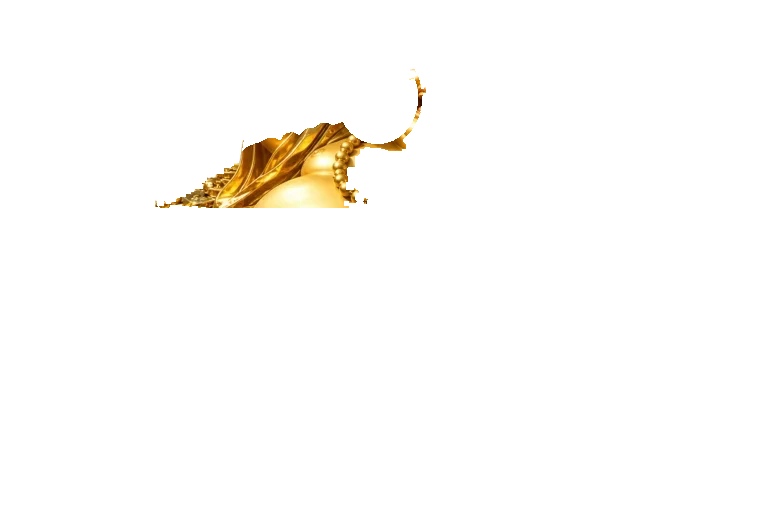
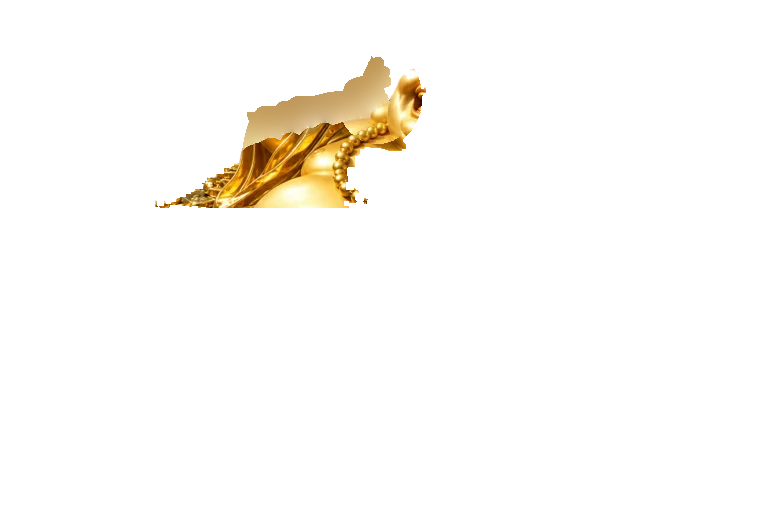
The backdrop the limb travels on
Two defects, one cause. The plate's fill was taken from the arm-down state,
so wherever that state has nothing — which is its whole shoulder line — the
pixels the limb uncovers had no paint behind them, and a wedge of open air
opened between the limb and the drape. And the anchor, the layer meant to
back the joint, carried the RAISED arm's pixels: exact at rest, and a
torn-off piece of the photograph once the hand was on the belly.

The anchor now carries the arm-down state's own gold, continued outward as
far as the limb can travel in the pose it is drawn in, and it steps aside
with the limb on the same two-millisecond handover.

Measured, rest pose: 70 px over 32 of 393216, 0 along the cut, and the
layering costs -0.16 dB against the artwork through one encoder trip.

Changed region(s): [[0.3125, 0.0938, 0.5625, 0.3125]]

diff --git a/app/public/styles.css b/app/public/styles.css
@@ -3222,10 +3222,13 @@ body:has(.consent) .footer { padding-bottom: 8rem; }
 .mascot-part--chest,
 .mascot-part--belly,
 .mascot-part--blink { opacity: 0; }
-/* The shoulder anchor never animates and is never hidden: it is the joint the
-   limb swings from. Its pixels are the artwork's own, so at rest it and the
-   limb tile the footprint exactly; while the limb moves, it is what the limb
-   slides over instead of tearing away from. */
+/* The limb's backdrop: the joint, and the gold the limb is standing in front
+   of. Its pixels are the artwork's own, so at rest it and the limb tile the
+   footprint exactly; while the limb moves it is what the limb slides OVER
+   instead of tearing away from. It is the RAISED pose's furniture, though, and
+   that is the half that was missing: left up while the hand is down it sits on
+   the shoulder as a torn-off piece of the photograph, so it steps aside with
+   the limb, on the same two-millisecond step, and comes back with it. */
 .mascot-part--anchor { opacity: 1; }
 /* The stacking is the composition's, not the DOM's: the plate is the still the
    parts are laid over and is pinned to the bottom of the scene, so a part can
@@ -3278,6 +3281,10 @@ body:has(.consent) .footer { padding-bottom: 8rem; }
      the bottom of the swing, where the arm is lowest and the shoulder is the
      last thing the eye is on (§5, §7, §8). */
   .mascot-part--belly { animation: buddha-belly 24s ease-in-out infinite; }
+  /* The limb's backdrop leaves with the limb. Same two-millisecond step, same
+     instant: the pose changes between frames, and the raised pose's gold does
+     not sit on the shoulder while the hand is on the belly. */
+  .mascot-part--anchor { animation: buddha-limb-presence 24s linear infinite; }
   .mascot-state--breath { animation: buddha-breathe 5.2s ease-in-out infinite; }
   .mascot-state--rest { animation: buddha-eat 12.5s ease-in-out infinite; }
   .mascot-state--blink { animation: buddha-blink 9s linear infinite; }
@@ -3349,6 +3356,12 @@ body:has(.consent) .footer { padding-bottom: 8rem; }
   0%, 60.39% { opacity: 0; }
   60.4%, 75.99% { opacity: 1; }
   76%, 100% { opacity: 0; }
+}
+
+@keyframes buddha-limb-presence {
+  0%, 60.39% { opacity: 1; }
+  60.4%, 75.99% { opacity: 0; }
+  76%, 100% { opacity: 1; }
 }
 
 @keyframes buddha-breathe {
@@ -3569,6 +3582,8 @@ body:has(.consent) .footer { padding-bottom: 8rem; }
   .mascot-part--chest,
   .mascot-part--belly,
   .mascot-part--blink { animation: none; opacity: 0; }
+  /* The still scene is the raised pose, and the anchor is part of it. */
+  .mascot-part--anchor { animation: none; opacity: 1; }
   .mascot-shimmer { animation: none; opacity: .32; transform: translateX(24%) rotate(45deg) scaleY(.55); }
   .mascot-aura { animation: none; opacity: .78; }
   .mascot-embers { animation: none; opacity: .4; transform: translateY(-10px); }

diff --git a/app/scripts/scene-parts.py b/app/scripts/scene-parts.py
@@ -297,9 +297,33 @@ SOLID = A_bq >= 0.98
 PLATE_REGION = M & SOLID & (A_rq >= 0.5) & ~G
 # The soft rim within reach of the joint rides with the anchor.
 _rim = M & ~SOLID
-_near_joint = np.asarray(dil(Image.fromarray((PLATE_REGION * 255).astype(np.uint8)), 6)) > 128
-ANCHOR_REGION = PLATE_REGION | (_rim & _near_joint)
-ARM_REGION = M & ~ANCHOR_REGION
+# WHAT THE LIMB IS STANDING IN FRONT OF, and how far out it is worth carrying.
+#
+# The tear that was reported is not a cut and not a seam: it is the SECOND
+# DRAWING's silhouette. Swing the limb and the pixels it leaves behind are
+# filled from the arm-down state — except where the arm-down state has nothing
+# there, which is everywhere along its own shoulder line. So a wedge of open air
+# opens between the limb and the drape, and a wedge of open air in the middle of
+# a figure is exactly what a tear is. The arm-down picture cannot answer this
+# question: it is a different pose, not a photograph of what was behind the arm.
+#
+# What can answer it is the arm-down picture's own gold, carried outward. So the
+# backdrop the limb travels on is that state's content extended into the gap the
+# limb leaves, as far as the limb can travel in the pose it is drawn in: fifteen
+# degrees about the shoulder, which at the far edge of the drape is about
+# twenty-six pixels.
+_known = A_rq > 0.02
+_band = np.asarray(dil(Image.fromarray((_known * 255).astype(np.uint8)), 26)) > 128
+# The limb's soft edge, where the arm-down state has body behind it. Nothing
+# here against open sky: pinning a sky-facing rim to a static layer is the
+# floating gold arc the first attempt at this produced (round55/shoulder-before-after).
+RIM_REGION = _rim & _known
+# The limb keeps everything the anchor does not own at rest. The anchor may sit
+# UNDER the limb's solid interior — that overlapping half is invisible while the
+# limb is there — but the limb must still be drawn: claiming those pixels for the
+# anchor is what emptied the arm layer, and the encoder probe refused to write a
+# plate over it, which is the probe working.
+ARM_REGION = M & ~(PLATE_REGION | RIM_REGION)
 plate_rgb = np.clip(np.asarray(base_q.convert("RGB")).astype(np.float32) * (~(M & SOLID))[:, :, None]
                     + fill_rgb * (M & SOLID)[:, :, None], 0, 255)
 # In PLATE_REGION the alpha is the ARTWORK's own while the COLOUR is the
@@ -397,16 +421,34 @@ arm_alpha = np.where(ARM_REGION, A_bq, 0.0)
 arm = Image.merge("RGBA", (*[Image.fromarray(base_rgb_rebuilt[:, :, c]) for c in range(3)],
                            Image.fromarray((arm_alpha * 255).round().astype(np.uint8))))
 
-# THE SHOULDER ANCHOR. The rig is two pieces, not one: the robe and chest around
-# the joint stay where they are, and the limb swings off them. Without it the
-# limb's cut edge slides across the body and the arm tears open at the shoulder
-# — the defect that made this split necessary.
+# THE LIMB'S BACKDROP. One layer with two halves, told apart by whether the
+# resting pose can see them.
 #
-# It carries the ARTWORK's own pixels and alpha, so at rest anchor + limb tile
-# the footprint exactly and the recomposition is exact again; and being static,
-# it is what the limb's edge slides OVER rather than away from.
-anchor_alpha = np.where(ANCHOR_REGION, A_bq, 0.0)
-anchor = Image.merge("RGBA", (*base_q.convert("RGB").split(),
+# WHERE THE RESTING POSE IS THE JUDGE — PLATE_REGION and the limb's soft edge —
+# the anchor is the artwork itself: its own pixels, its own alpha. Anchor and
+# limb tile the footprint exactly (the limb is drawn over its share of the
+# anchor), so the recomposition is exact, and static is what makes the limb's
+# edge slide over the joint instead of away from it.
+#
+# WHERE THE LIMB IS ALWAYS ON TOP — its solid interior — the anchor may carry
+# what the limb UNCOVERS: the arm-down state's own gold, continued past where
+# that state runs out. At rest not one of those pixels is visible; they exist
+# for the four seconds a cycle when the limb has moved off them.
+#
+# And the anchor leaves with the limb (see `buddha-limb-presence` in
+# styles.css). It is the RAISED pose's furniture; left up while the hand is
+# down it sits on the shoulder as a torn-off piece of the photograph, which is
+# the other half of the report this fixes.
+_ext_unknown = M & ~_known & _band
+_backdrop_rgb = np.asarray(rest_q.convert("RGB")).astype(np.float32)
+if _ext_unknown.any():
+    _backdrop_rgb = np.clip(diffuse_fill(_backdrop_rgb, _ext_unknown,
+                                         _known & _band, iterations=1500), 0, 255)
+_backdrop_rgb = np.where((PLATE_REGION | RIM_REGION)[:, :, None], B_rgb, _backdrop_rgb)
+anchor_alpha = np.where(PLATE_REGION | RIM_REGION, A_bq,
+                        np.where(M & SOLID & _band, 1.0, 0.0))
+anchor = Image.merge("RGBA", (*[Image.fromarray(_backdrop_rgb[:, :, c].astype(np.uint8))
+                                for c in range(3)],
                               Image.fromarray((anchor_alpha * 255).round().astype(np.uint8))))
 # The grapes keep the artwork's pixels and its alpha, exactly as drawn: they are
 # the one layer that is a straight copy of the picture, because they are the one
